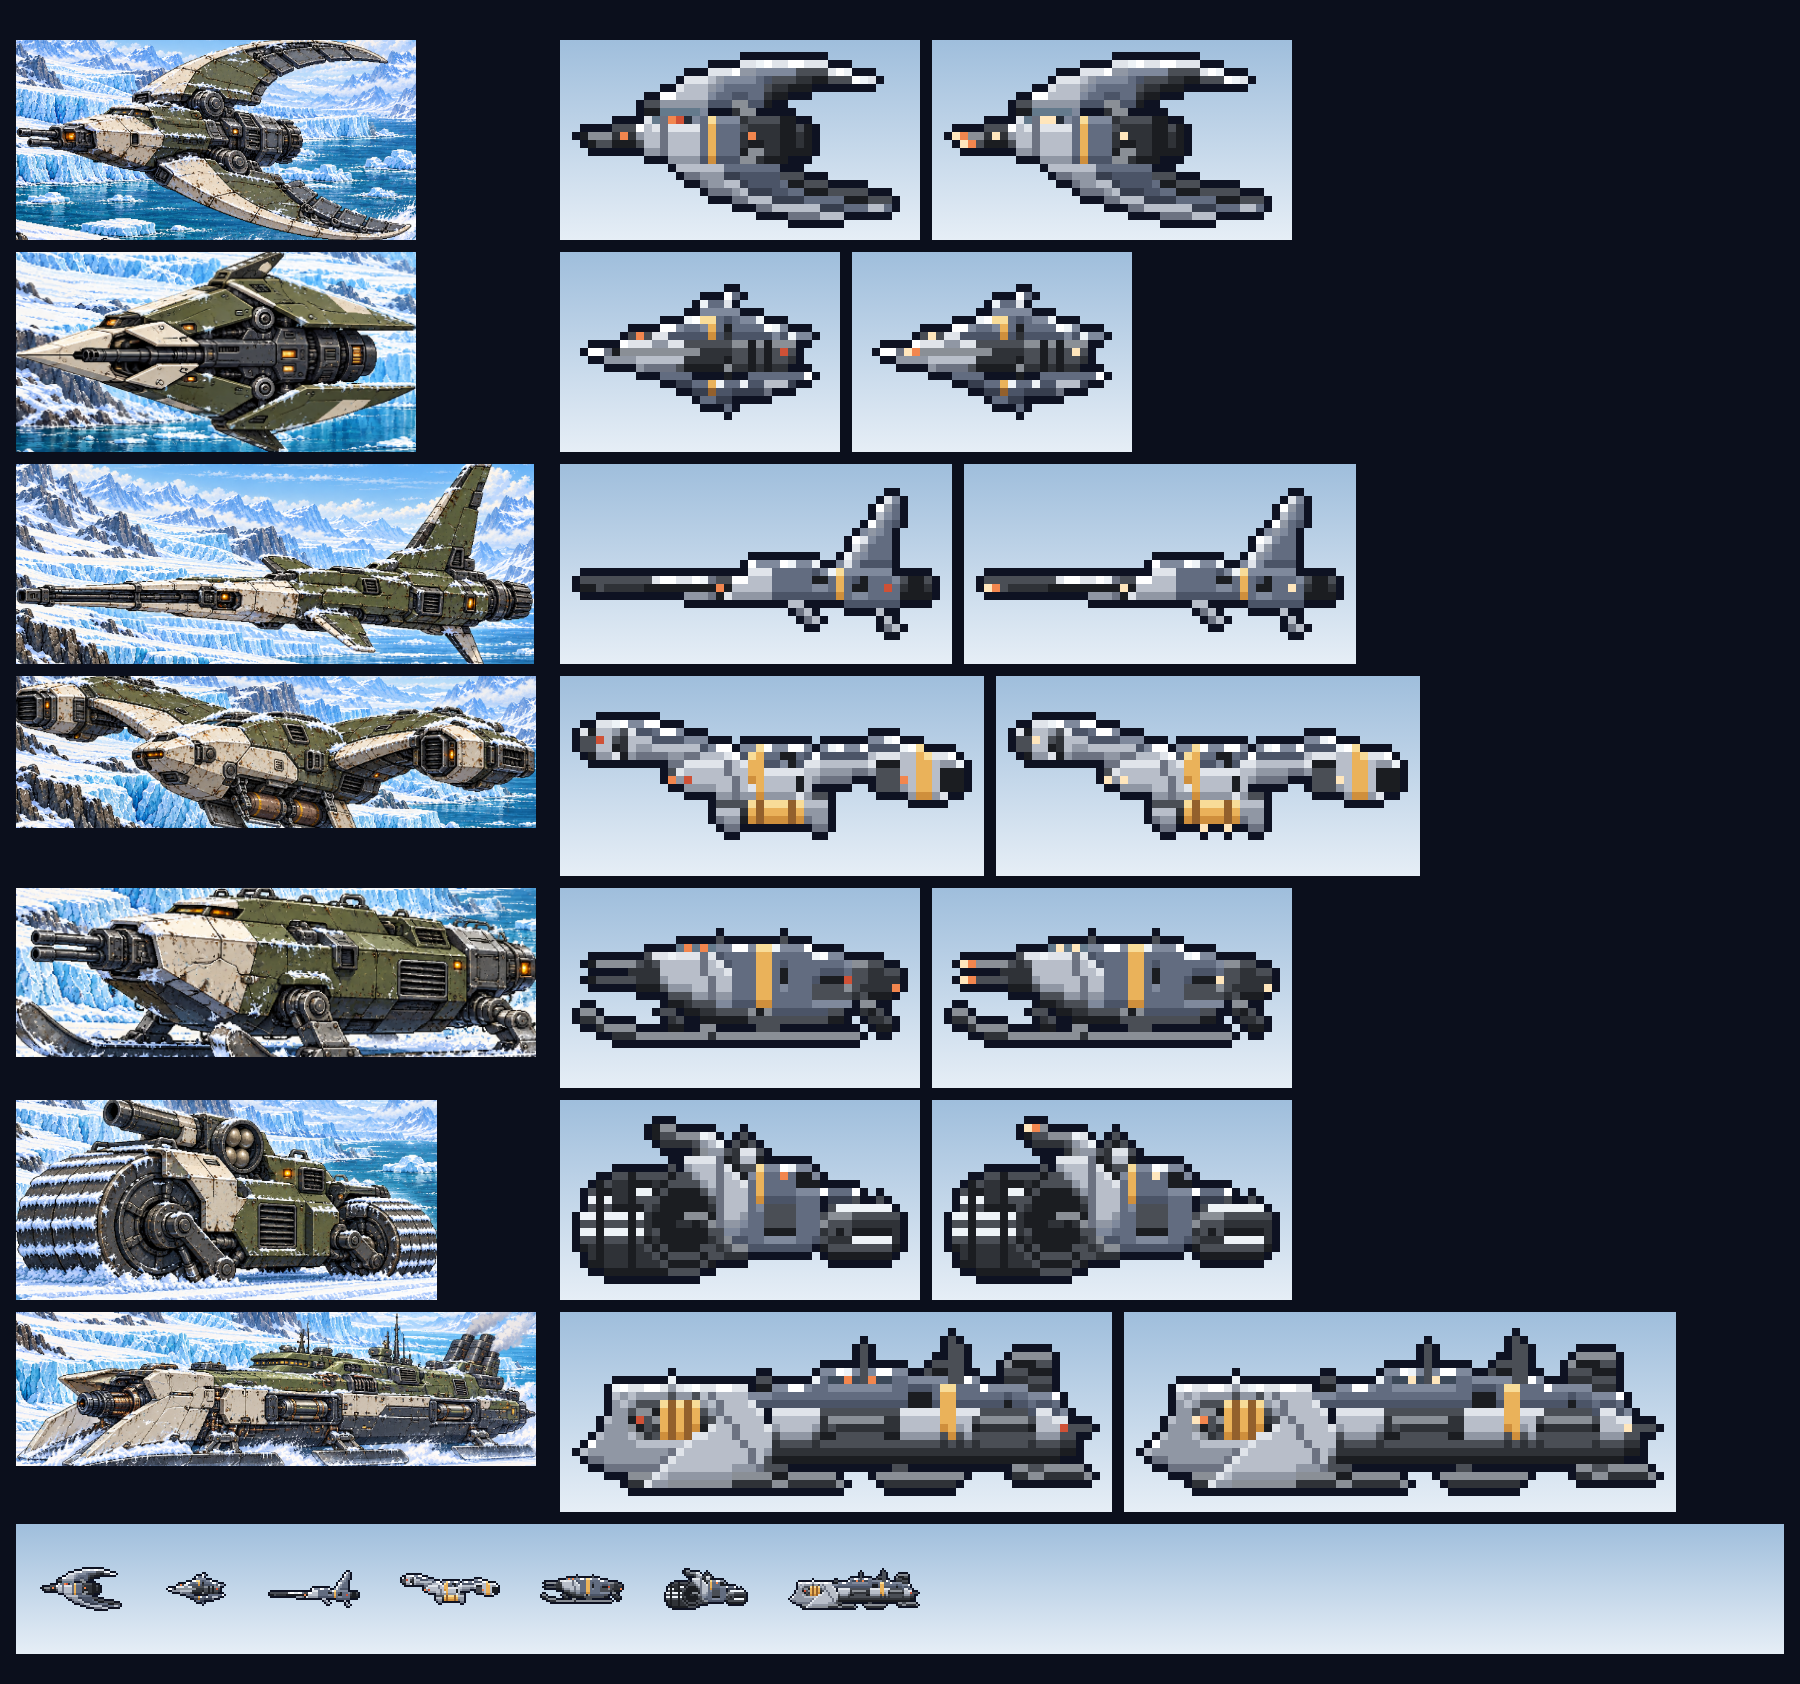
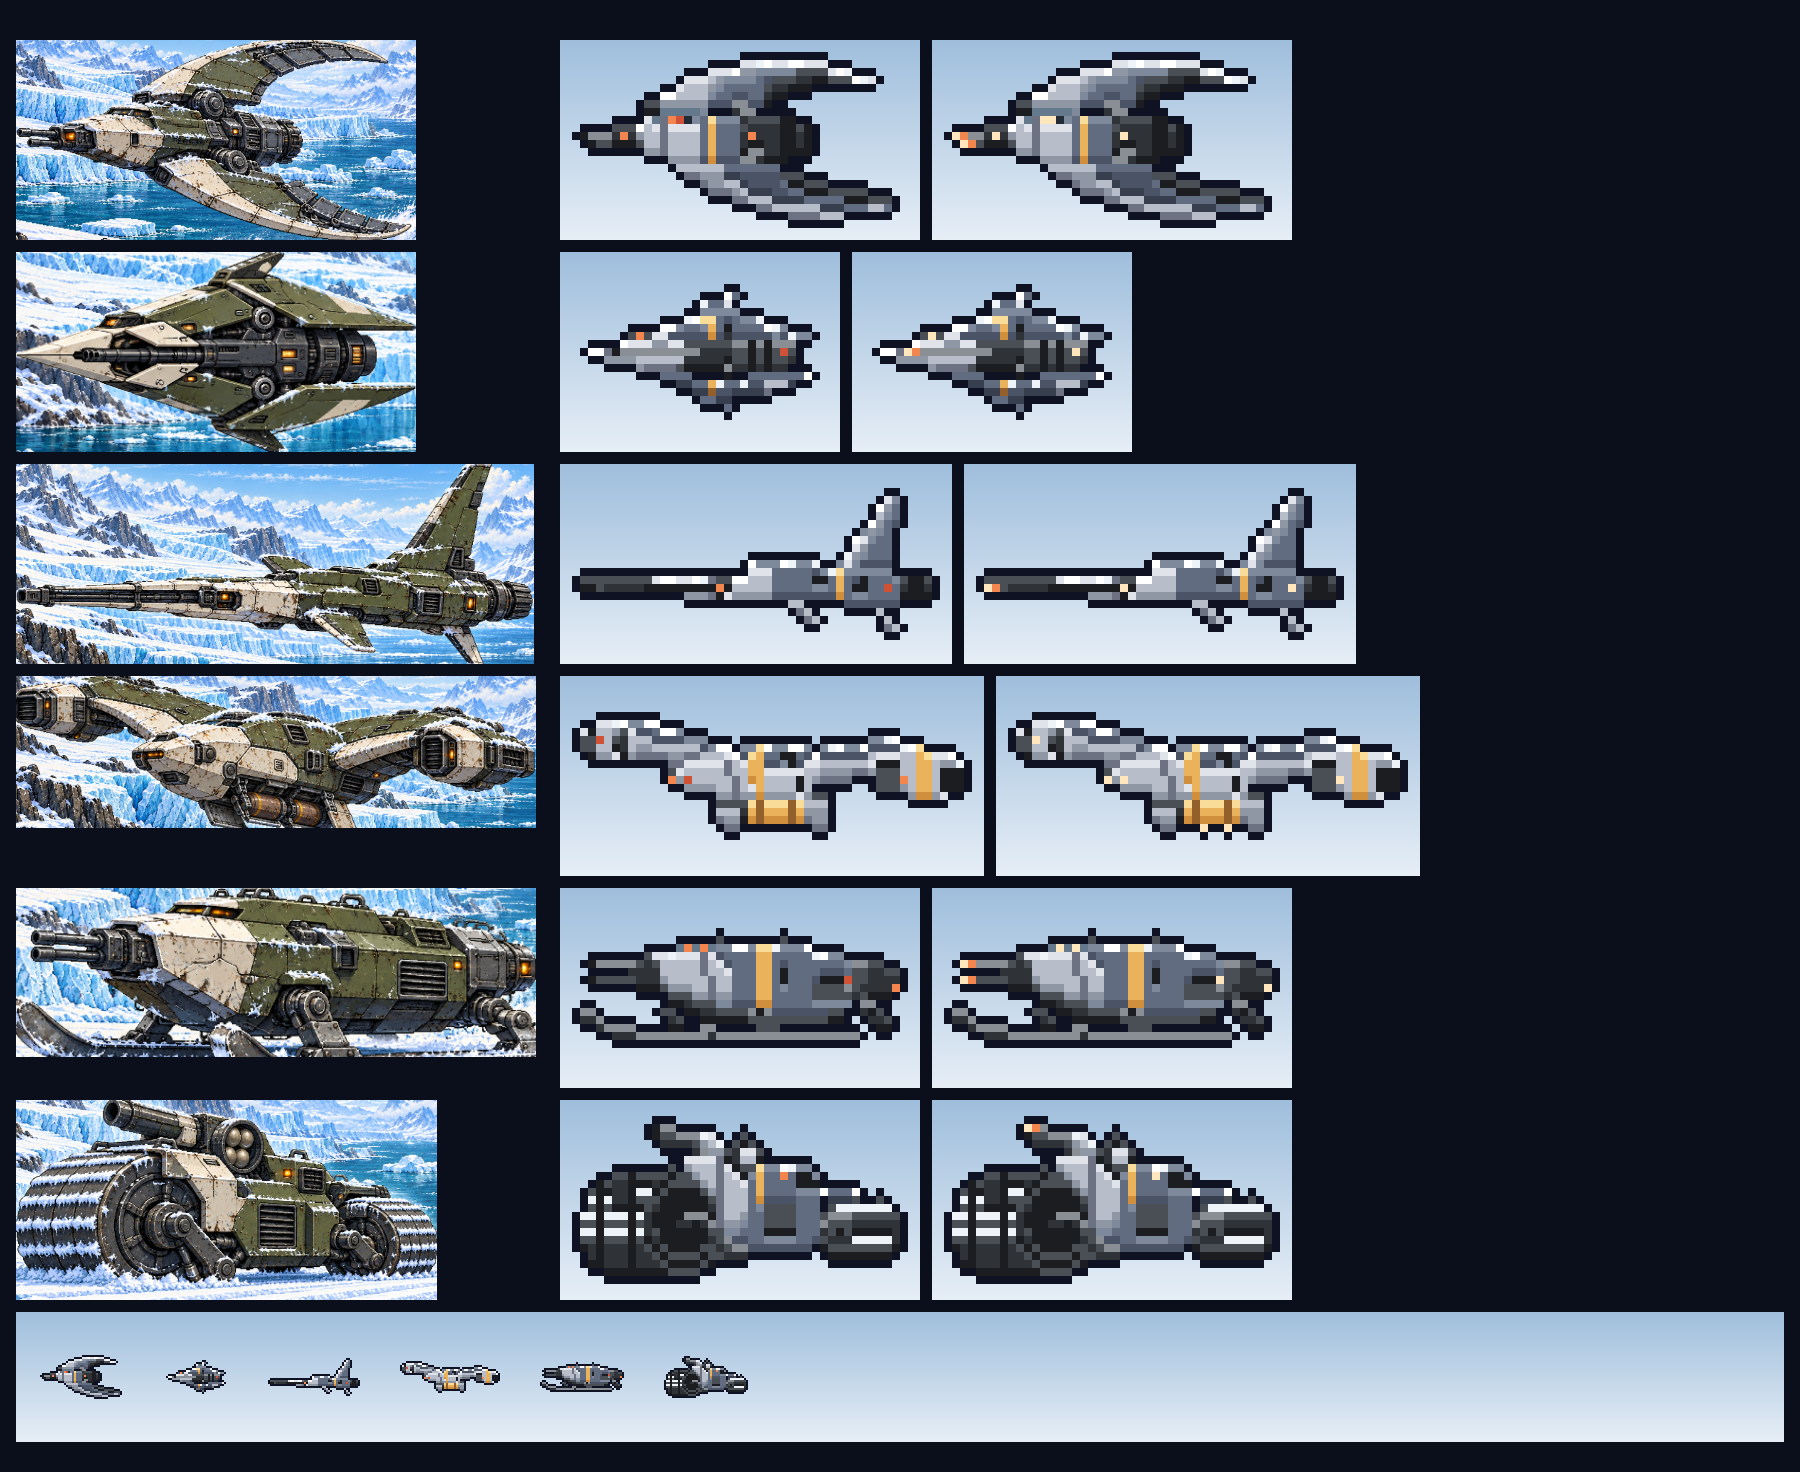
White Front preview: remove the big sled
The owner didn't want the armoured sled. It goes, and with it the Anchor
Gun slot it had taken; its places in the waves go to a skiff, a roller
and a needle wing.

Claude-Session: https://claude.ai/code/session_018LoGNSpf9yPrdZyEJhPLuc

diff --git a/tools/white-front/wolves3/vehicles.js b/tools/white-front/wolves3/vehicles.js
@@ -215,41 +215,3 @@ V.roller = { // Snow Roller: a huge snow-crusted drum wheel at the front, a char
   ],
 };
 
-V.hauler = { // Ice Hauler: a long armoured sled with a plough nose, rotary cannon, smokestacks (coords-hauler.png)
-  width: 64, guide: [30, 330, 1500 / 1440], muzzles: [[190, 285]],
-  shapes: [
-    // skis and legs
-    { m: 'mech', t: 1, poly: [[160, 440], [790, 435], [800, 460], [760, 475], [200, 478], [165, 465]] },
-    { m: 'mech', t: 1, poly: [[880, 430], [1140, 430], [1160, 445], [1130, 460], [900, 460]] },
-    { m: 'mech', t: 1, poly: [[1280, 415], [1510, 415], [1520, 430], [1500, 445], [1300, 445]] },
-    { m: 'mech', t: 2, rect: [570, 340, 640, 440] }, { m: 'mech', t: 2, rect: [930, 360, 990, 432] }, { m: 'mech', t: 2, rect: [1330, 360, 1390, 416] },
-    // smokestacks, masts and roof gear
-    { m: 'mech', t: 1, poly: [[1260, 110], [1300, 75], [1340, 75], [1350, 210], [1260, 215]] },
-    { m: 'mech', t: 1, poly: [[1330, 100], [1370, 75], [1410, 80], [1410, 210], [1340, 215]] },
-    { line: [1290, 120, 1340, 120], m: 'mech', t: 3 }, { line: [1350, 130, 1400, 130], m: 'mech', t: 3 },
-    { line: [1120, 30, 1120, 150], m: 'mech', t: 1, over: true }, { line: [1145, 60, 1145, 150], m: 'mech', t: 1, over: true },
-    { line: [850, 70, 850, 150], m: 'mech', t: 1, over: true },
-    { m: 'mech', t: 2, rect: [1040, 105, 1100, 160] }, { m: 'mech', t: 2, rect: [535, 160, 600, 200] },
-    // the long hull: dark lower body, olive deck, cream side armour
-    { m: 'mech', t: 2, poly: [[480, 300], [1460, 290], [1470, 360], [1440, 390], [1100, 400], [700, 410], [500, 400]] },
-    { m: 'main', t: 1, poly: [[520, 190], [700, 170], [720, 130], [960, 115], [1000, 140], [1250, 165], [1420, 200], [1450, 270], [1460, 300], [1200, 300], [700, 250], [520, 240]] },
-    { m: 'main', t: 0, rect: [740, 132, 950, 150] },
-    { m: 'glass', t: 2, flat: true, rect: [745, 152, 935, 168] },
-    { m: 'mech', t: 3, flat: true, rect: [980, 185, 1060, 235] }, { m: 'mech', t: 3, flat: true, rect: [1260, 220, 1300, 265] },
-    { m: 'light', t: 1, poly: [[600, 230], [1440, 255], [1450, 300], [1440, 320], [600, 320]] },
-    { m: 'mech', t: 2, rect: [720, 240, 960, 320] }, { m: 'mech', t: 1, rect: [760, 255, 920, 300] }, { line: [790, 278, 900, 278], m: 'mech', t: 0 },
-    { m: 'mech', t: 2, rect: [1180, 250, 1350, 320] }, { m: 'mech', t: 1, rect: [1200, 265, 1330, 305] },
-    { line: [1440, 300, 1500, 300], m: 'mech', t: 1, over: true },
-    // the plough nose: big cream armour plates round the rotary cannon
-    { m: 'light', t: 2, poly: [[30, 710 - 330], [110, 270], [130, 190], [300, 190], [330, 260], [380, 330], [300, 420], [150, 430]] },
-    { m: 'mech', t: 2, poly: [[160, 240], [260, 210], [420, 200], [470, 260], [460, 330], [300, 340], [170, 320]] },
-    { m: 'cu', t: 1, rect: [260, 230, 380, 320] }, { line: [300, 230, 300, 320], m: 'cu', t: 3 }, { line: [340, 230, 340, 320], m: 'cu', t: 3 },
-    { m: 'mech', t: 1, ell: [215, 285, 42, 52] }, { m: 'mech', t: 3, flat: true, ell: [200, 285, 20, 24] },
-    { m: 'light', t: 1, poly: [[120, 175], [300, 160], [480, 170], [520, 200], [470, 250], [410, 210], [280, 200], [160, 230]] },
-    { m: 'light', t: 1, poly: [[360, 180], [500, 170], [560, 240], [600, 330], [560, 430], [400, 440], [210, 470], [320, 350], [420, 280]] },
-    { line: [420, 200, 560, 420], m: 'light', t: 3 },
-    { dot: [205, 285], m: 'lamp', t: 2 }, { dot: [1430, 290], m: 'lamp', t: 2 },
-    { dot: [800, 160], m: 'lamp', t: 1 }, { dot: [880, 160], m: 'lamp', t: 1 },
-    { only: 'wolves', m: 'haz', t: 1, poly: [[1090, 160], [1130, 165], [1132, 320], [1092, 320]] },
-  ],
-};

diff --git a/tools/white-front/sample/game.html b/tools/white-front/sample/game.html
@@ -581,11 +581,11 @@ const CYCLE = 60;
 const pair = (y) => { coast('dart', 215, y, { lane: 0 }); coast('dart', 226, y + 26, { lane: 1 }); };
 const COAST_WAVES = [
   [0.5, () => pair(30)], [3.5, () => coast('skiff', 222)], [6.5, () => coast('needle', 220, 56)],
-  [9.5, () => coast('bomber', 222, 24)], [12.5, () => coast('anchor', 222)], [15.5, () => coast('roller', 224)],
+  [9.5, () => coast('bomber', 222, 24)], [12.5, () => coast('skiff', 222)], [15.5, () => coast('roller', 224)],
   [18.5, () => { pair(24); pair(70); }], [21.5, () => coast('hunter', 220, 46)],
-  [24.5, () => { coast('skiff', 222); coast('anchor', 262); }], [28, () => { coast('bomber', 222, 26); pair(76); }],
+  [24.5, () => { coast('skiff', 222); coast('roller', 262); }], [28, () => { coast('bomber', 222, 26); pair(76); }],
   [32, () => { coast('needle', 220, 30); coast('needle', 236, 84); }], [36, () => { coast('roller', 224); coast('hunter', 222, 64); }],
-  [40, () => { coast('anchor', 222); coast('bomber', 236, 22); }], [44, () => { pair(26); pair(64); }],
+  [40, () => { coast('needle', 220, 60); coast('bomber', 236, 22); }], [44, () => { pair(26); pair(64); }],
   [48, () => { coast('hunter', 220, 36); coast('hunter', 236, 82); }], [52, () => { coast('skiff', 222); coast('roller', 262); }],
   [55, () => { coast('needle', 220, 50); coast('bomber', 238, 24); }],
 ];

diff --git a/tools/white-front/wolves3/army.js b/tools/white-front/wolves3/army.js
@@ -1,12 +1,12 @@
 // The Iron Wolves army for the preview: each vehicle as a function (open) -> { w, h, a },
-// like the older sprite sets. The big sled takes the Anchor Gun's place (same attack:
-// armoured until it opens up for a heavy shell); shots stay as they were.
+// like the older sprite sets; shots stay as they were. The owner removed the big sled
+// (and with it the Anchor Gun), so the preview has six enemy types.
 import { V } from './vehicles.js';
 import { paint } from './vec.js';
 import { WOLF_COAST } from '../sets4.js';
 const make = (n) => (open) => { const p = paint(V[n], 'wolves', open); return { w: p.w, h: p.h, a: p.a }; };
 export const WOLVES = {
-  skiff: make('skiff'), anchor: make('hauler'), roller: make('roller'), dart: make('dart'),
+  skiff: make('skiff'), roller: make('roller'), dart: make('dart'),
   bomber: make('bomber'), needle: make('needle'), hunter: make('hunter'),
   charge: WOLF_COAST.charge, bomb: WOLF_COAST.bomb,
 };

diff --git a/tools/white-front/wolves3/README.md b/tools/white-front/wolves3/README.md
@@ -1,10 +1,10 @@
 # The Iron Wolves, traced from the owner's paintings
 
-The owner's seven paintings (ChatGPT, olive and cream "coast army") are the
+The owner's paintings (ChatGPT, olive and cream "coast army") are the
 reference; each vehicle is traced shape by shape over its painting in
 `vehicles.js` (coordinates in the painting's pixels, or on the coordinate
 guide picture that `coords.mjs` makes), and `vec.js` turns the shapes into
 sharp double-detail sprites in the Iron Wolves colours (or the coast colours).
-`army.js` hands them to the preview's build; the big sled takes the Anchor
-Gun's place. `sheet3.mjs` draws the comparison sheet. The paintings
+`army.js` hands them to the preview's build. The owner removed the big
+sled (painting 1), so there are six; the Anchor Gun went with it. `sheet3.mjs` draws the comparison sheet. The paintings
 themselves (20 MB) are not kept here: put them in `ref/<name>.png` to rerun.
